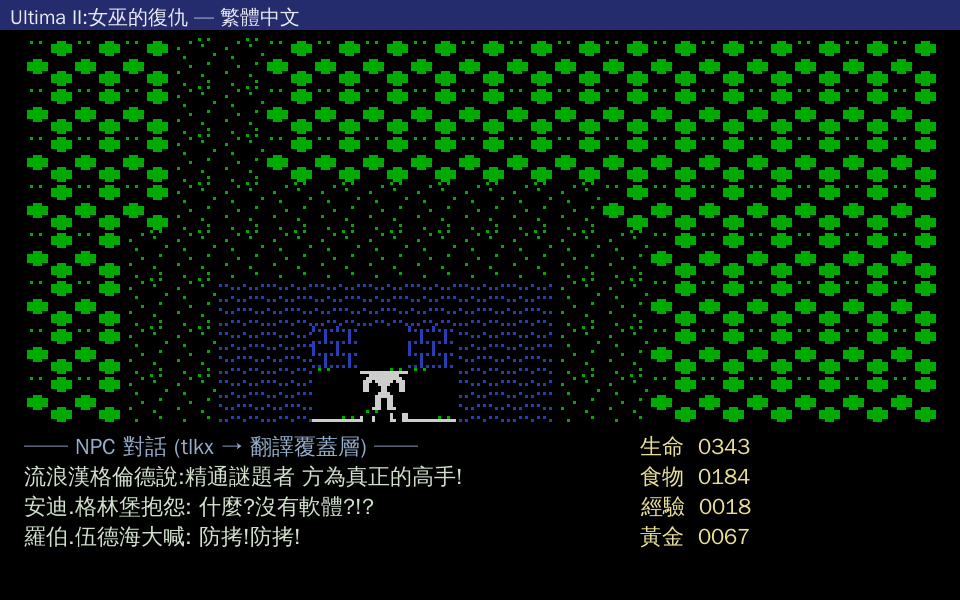
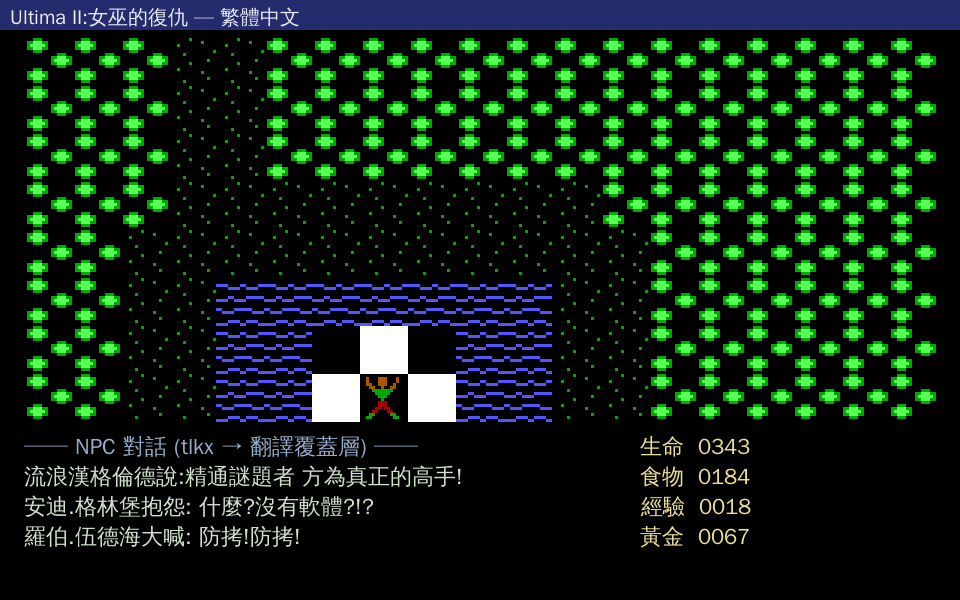
引擎改用 U2 Upgrade tileset 渲染(修正 poc/movement 截圖的錯誤 tile)
根因:引擎(poc/movement 截圖)仍用錯的 EXE @0x7C42 tile,只有 terrain_in_context
用了 EGATILES → GitHub 上 tileset 看起來明顯錯誤。

- 確認解碼正確:EGATILES 為 packed-nibble 4bpp(planar 解讀為亂碼,已排除)
- decode_u2upgrade_tiles.py 加 'strip' 模式:產 65-tile 引擎 tileset strip
- build_poc.sh / build_demo.sh:優先用玩家自備 EGATILES 產引擎 tileset
  (U2UP_TILES env 或 <data>/EGATILES);找不到才 fallback EXE @0x7C42 (PoC)
- 重生 poc_map_cjk.png / movement_verify.png:藍波浪水/綠樹/城堡/山/彩色 sprite
  (正確 U2 Upgrade 畫面,非 EXE 綠點)
- 文件更新:引擎 tileset 管線改 U2 Upgrade 優先

驗證:run_tests 15/15;poc + movement 重生正常;repo 無 raw art

diff --git a/tools/decode_u2upgrade_tiles.py b/tools/decode_u2upgrade_tiles.py
@@ -80,7 +80,20 @@ def main():
     out = sys.argv[2]
     kind = sys.argv[3] if len(sys.argv) > 3 else (
         "ega" if len(data) >= N_TILES * 128 else "cga")
+    mode = sys.argv[4] if len(sys.argv) > 4 else "sheet"
     dec = decode_ega if kind == "ega" else decode_cga
+
+    if mode == "strip":
+        # 引擎 tileset:65 tile 橫條 (1040×16),u2_tileset 以 id*16 取 src x
+        strip = Image.new("RGB", (N_TILES * 16, 16), (0, 0, 0))
+        for t in range(N_TILES):
+            rows = dec(data, t)
+            for y in range(16):
+                for x in range(16):
+                    strip.putpixel((t * 16 + x, y), rows[y][x])
+        strip.save(out)
+        print(f"wrote {out} ({kind} engine strip, {N_TILES} tiles)")
+        return
 
     cols, sc, gp, lab = 8, 5, 10, 14
     tw = 16 * sc

diff --git a/docs/DATA_FORMATS.md b/docs/DATA_FORMATS.md
@@ -32,7 +32,8 @@
 - **EGATILES** = 65 tile × 128 byte = 16×16 **EGA 4bpp**(8 byte/row,每 byte 2 nibble,高 nibble=左 px;nibble = 標準 EGA 16 色 index)。`EGATHEME.*/EGACOLOR`(32B)為 theme 變體 palette。
 - map 的 `tile_id`(byte÷4)直接索引此 tileset(0–64);實測 mapx20(地球)渲染出正確的藍色波浪海、綠樹叢、灰白山([`screenshots/terrain_in_context.png`](screenshots/terrain_in_context.png))。
 - **逐 id 名稱(經 U2 Upgrade sheet 視覺確認)**:0 water · 1 water2 · 2 grass · 3 forest · 4 mountain · 5 town · 6 castle · 7 tower · 8 keep · 9 dungeon · 10 sign · 11 shore · 12 lizardman · 13 ghost · 14 devil · 15 balron · 16 person · **17 horse** · **18 ship** · 19 aircar · 20 rocket · 21 serpent-sign · **22 sword** · 23 barrier · 24–27 person/fighter · **28 wall** · 30 white · **32–57 = A–Z**(招牌字,乾淨 16×16 tile!)· 60–63 monster · 64 orb。
-- 工具:[`tools/decode_u2upgrade_tiles.py`](../tools/decode_u2upgrade_tiles.py)(玩家自備 EGATILES/CGATILES 後本機生成 65-tile sheet)、[`tools/render_map.py`](../tools/render_map.py) `--tileset <EGATILES>`。
+- 工具:[`tools/decode_u2upgrade_tiles.py`](../tools/decode_u2upgrade_tiles.py)(`sheet` 模式產 65-tile 對照圖;`strip` 模式產引擎 tileset)、[`tools/render_map.py`](../tools/render_map.py) `--tileset <EGATILES>`。
+- **引擎管線**:`build_poc.sh` / `build_demo.sh` 優先用玩家自備的 **EGATILES** 產引擎 tileset strip(`U2UP_TILES` env 或 `<data>/EGATILES`);找不到才 fallback `ultimaii.exe @0x7C42`(PoC,非正確 tileset)。poc/movement 截圖已用 U2 Upgrade tiles。
 - **保守授權**:U2 Upgrade art 版權屬 mcmagi/EA → **repo 不提交完整 tileset sheet**;ground truth 以上方**文字 id 表**為準,視覺僅保留 map-context 截圖 [`screenshots/terrain_in_context.png`](screenshots/terrain_in_context.png)(少量 tile 在地圖脈絡中,文件用途)。完整 sheet 請玩家自備 tileset 後用上述工具本機生成。
 
 ## ~~ultimaii.exe @0x7C42 embedded tiles~~(PoC,**非主要 ground truth**)

diff --git a/docs/POC.md b/docs/POC.md
@@ -21,7 +21,8 @@
 **底部訊息列為端到端在地化展示**:引擎讀**原始 `tlkx21`**(high-bit ASCII 解碼)→ 經**翻譯覆蓋層** `talk_dialogue.tsv`(以原文為 key)查譯文 → 繪 CJK。畫面中「流浪漢格倫德說:精通謎題者方為真正的高手!」「安迪.格林堡抱怨:什麼?沒有軟體?!?」「羅伯.伍德海大喊:防拷!防拷!」皆為**真實 tlkx21 NPC 對話的中譯**(非硬編);查無譯文則 fallback 原文(暗色)。
 
 > 完整在地化管線:**原始資料 → 覆蓋層 → CJK**,模組 `u2_talk`(解碼)+ `u2_strings`(覆蓋層)。
-> 注:本 PoC 截圖用早期 `ultimaii.exe @0x7C42` PoC tile;**正確 tileset ground truth 為 U2 Upgrade CGATILES/EGATILES**(此 PoC tile 與其只有 id 0 相同),詳見 [DATA_FORMATS.md](DATA_FORMATS.md)。實體層見 monxNN 段。
+> 截圖使用 **U2 Upgrade EGATILES**(正確 tileset:藍波浪水/綠樹/城堡/山/彩色 sprite);
+> 引擎 tileset 由 `build_poc.sh` 優先用玩家自備的 EGATILES 產生(找不到才 fallback EXE @0x7C42 PoC tile)。詳見 [DATA_FORMATS.md](DATA_FORMATS.md)。實體層見 monxNN 段。
 
 ## 架構(deep modules / 垂直層)
 
@@ -31,7 +32,7 @@ src/
   u2_mon.{h,c}      # data 層:monxNN 實體層 (NPC/怪物,32 格陣列)
   u2_talk.{h,c}     # data 層:tlkxNN 對話解碼 (high-bit ASCII)
   u2_strings.{h,c}  # i18n 層:翻譯覆蓋層 (原文→zh_hant)
-  u2_tileset.{h,c}  # render 層:真實 CGA tile (從 ultimaii.exe 抽出) blit
+  u2_tileset.{h,c}  # render 層:tileset strip (U2 Upgrade EGATILES) blit
   u2_render.{h,c}   # render 層:viewport + 實體疊繪 (真 tile,色塊 fallback)
   u2_text.{h,c}     # text 層:SDL2_ttf UTF-8 繪字 (ADR 0001 文字層原生繪製)
   poc_main.c        # 接線:仿 U2 版面 + 端到端在地化展示
